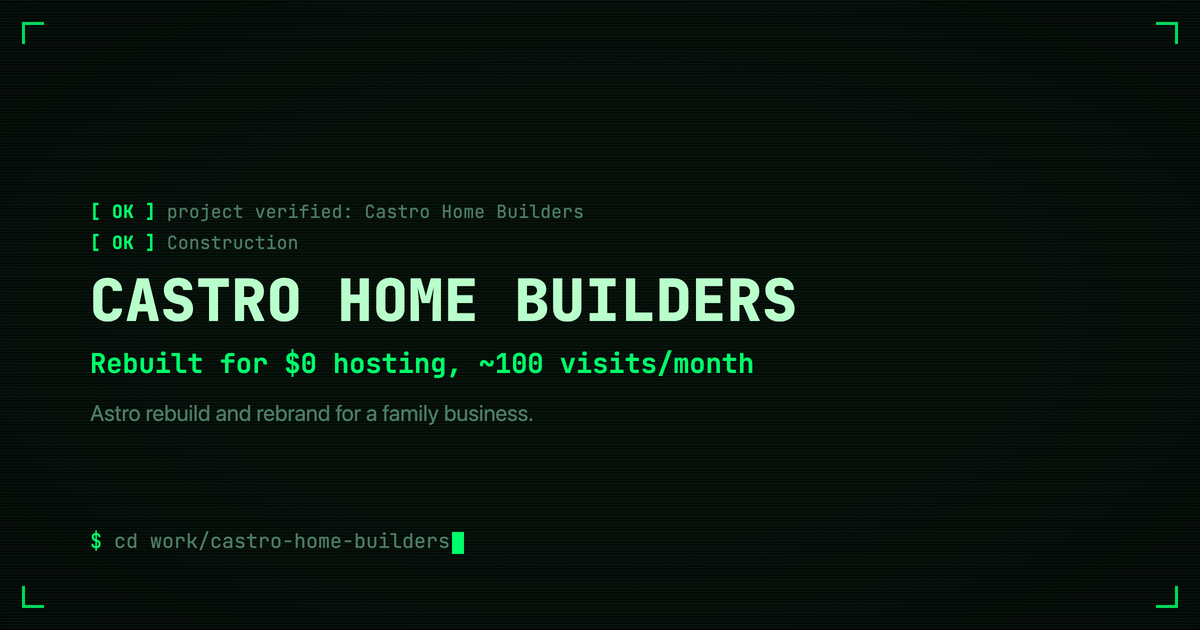
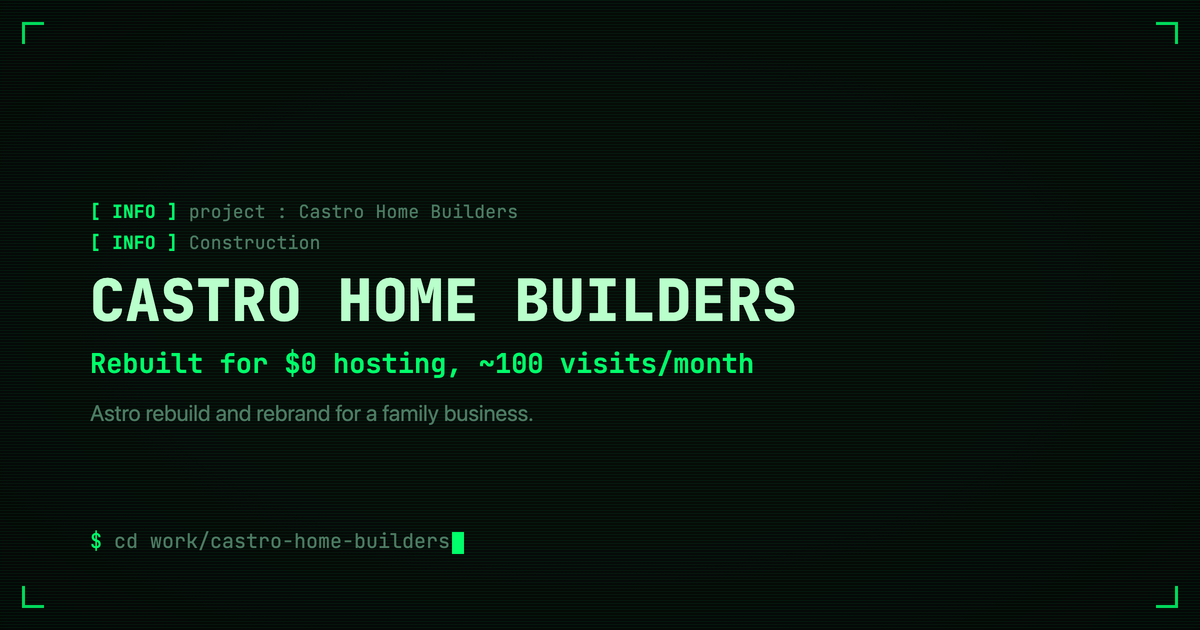
fix up card generation

Changed region(s): [[0.0925, 0.3016, 0.4933, 0.3921]]

diff --git a/tools/og-cards/template.html b/tools/og-cards/template.html
@@ -108,7 +108,7 @@
         letter-spacing: 0.01em;
         margin: 0 0 8px;
       }
-      .boot .ok {
+      .boot .info {
         color: var(--green);
         font-weight: 700;
       }
@@ -192,8 +192,8 @@
       <span class="corner tl"></span><span class="corner tr"></span>
       <span class="corner bl"></span><span class="corner br"></span>
       <div class="content">
-        <p class="boot"><span class="ok">[ OK ]</span> __BOOT_1__</p>
-        <p class="boot"><span class="ok">[ OK ]</span> __BOOT_2__</p>
+        <p class="boot"><span class="info">[ INFO ]</span> __BOOT_1__</p>
+        <p class="boot"><span class="info">[ INFO ]</span> __BOOT_2__</p>
         <h1 class="headline">
           <span class="ghost magenta" aria-hidden="true">__HEADLINE__</span>
           <span class="ghost cyan" aria-hidden="true">__HEADLINE__</span>

diff --git a/src/utils/experience.js b/src/utils/experience.js
@@ -1,0 +1,11 @@
+// Plain .js (not .ts) on purpose: this is imported both by the Astro site
+// (src/pages/index.astro) and by the standalone tools/og-cards/generate.mjs
+// script, which runs under plain `node` with no TS loader — keeping this
+// dependency-free JS lets both sides share one source of truth instead of
+// hand-syncing "N years" in two places.
+
+export const CAREER_START_YEAR = 2019;
+
+export function getYearsOfExperience(referenceDate = new Date()) {
+  return referenceDate.getFullYear() - CAREER_START_YEAR;
+}

diff --git a/tools/og-cards/README.md b/tools/og-cards/README.md
@@ -69,7 +69,7 @@ will remind you otherwise.
 
 **Projects** (`src/content/projects/*.md` frontmatter):
 
-- Boot line 1: `project verified: <name>`
+- Boot line 1: `project: <name>`
 - Boot line 2: `<tag> / <date>` (or just `<tag>` if no `date`)
 - Headline: `name`
 - Metric (green line): `subtitle`
@@ -78,7 +78,7 @@ will remind you otherwise.
 
 **Blog posts** (`src/content/blog/*.md` frontmatter):
 
-- Boot line 1: `post verified: <title>`
+- Boot line 1: `post: <title>`
 - Boot line 2: `<first tag> / <publish year>`
 - Headline: `title`
 - Metric (green line): up to 3 `tags`, joined with `·` — blog frontmatter
